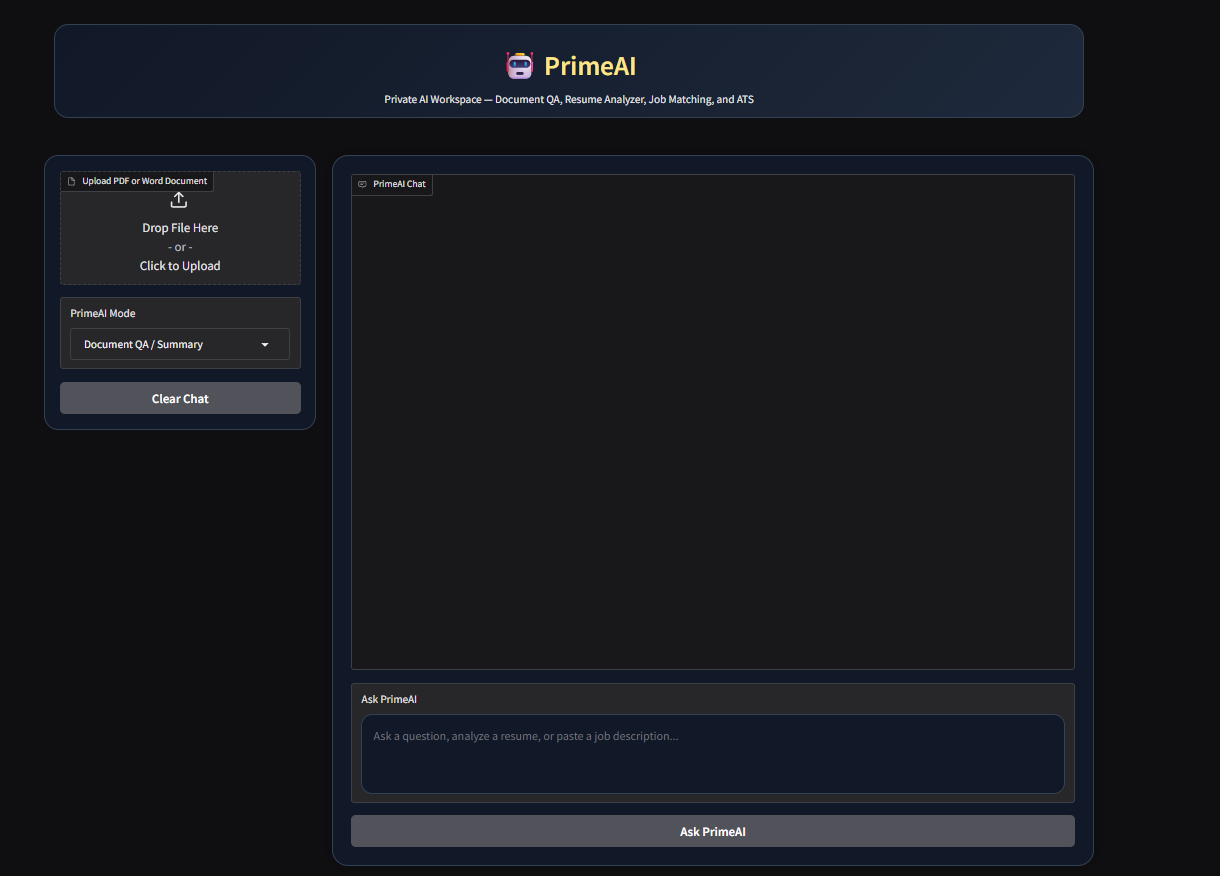
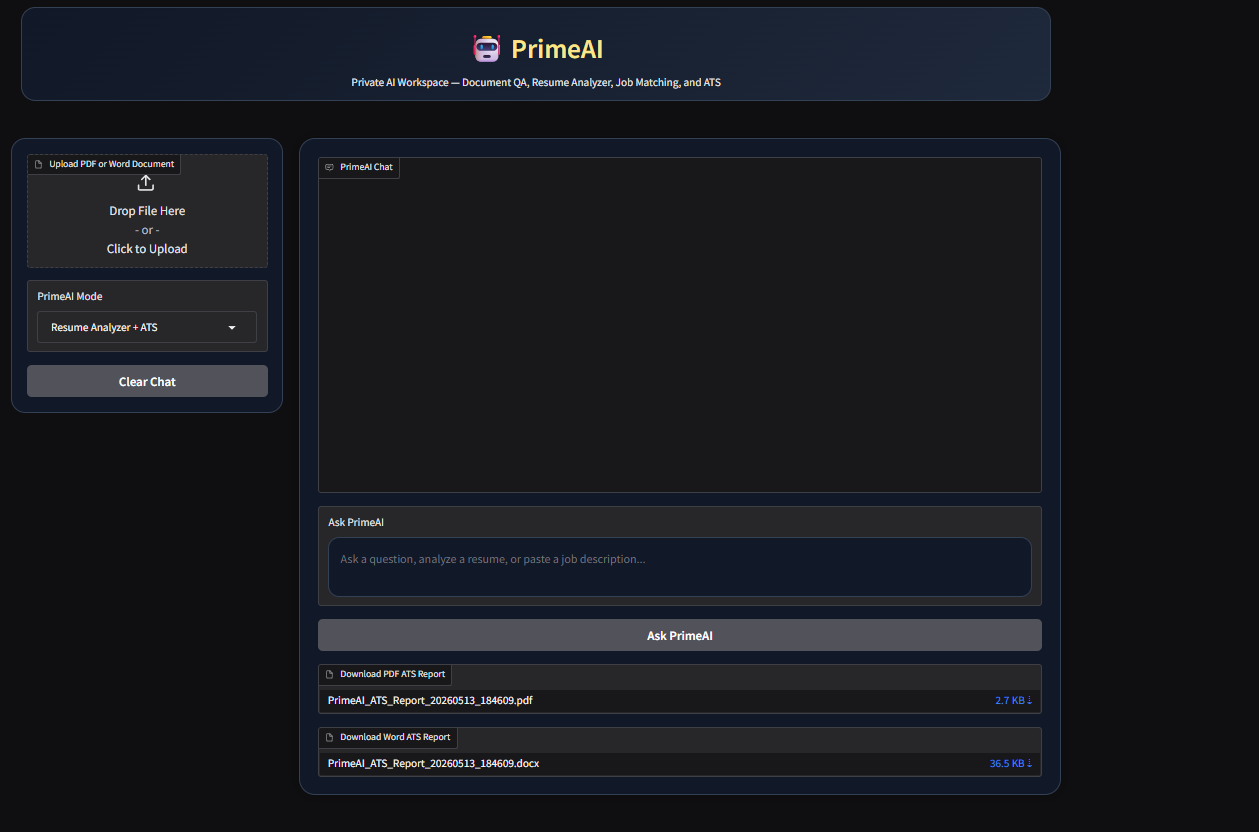
Update PrimeAI README

Changed region(s): [[0.0, 0.0, 0.9033, 0.5], [0.2492, 0.5938, 0.9033, 0.9688]]

diff --git a/app.py b/app.py
@@ -14,6 +14,27 @@ def clean_text(text):
     text = " ".join(text.split())
     return text
 
+def calculate_ats_score(resume_text, job_text):
+
+    resume_text = resume_text.lower()
+    job_text = job_text.lower()
+
+    keywords = list(set(job_text.split()))
+
+    matched = []
+
+    for word in keywords:
+        if len(word) > 4 and word in resume_text:
+            matched.append(word)
+
+    if len(keywords) == 0:
+        score = 0
+    else:
+        score = int((len(matched) / len(keywords)) * 100)
+
+    score = min(score, 95)
+
+    return score, matched[:25]
 
 def ask_ai(prompt):
     llm = ChatOllama(
@@ -25,40 +46,94 @@ def ask_ai(prompt):
 
 
 def job_matching(text, job_description):
+    ats_score, matched_keywords = calculate_ats_score(text, job_description)
     prompt = f"""
 You are PrimeAI, a professional AI job matching and career advisor.
 
 Compare the uploaded resume with the job description below.
 
-Return:
+# PrimeAI ATS Resume Report
+You MUST return the report using these exact headings only.
 
-# Job Match Score
-Give a realistic match score out of 100.
+## ATS Score
+Give a realistic ATS score out of 100.
 
-# Strong Matches
-List resume strengths that match the job.
+## Best-Fit Roles
+List 4 realistic roles:
+- AI Trainer
+- Data Analyst
+- AI Operations Support
+- Internal AI Tools Assistant
 
-# Missing Skills / Gaps
-List missing or weak skills.
+## Matched Keywords
+List matched resume keywords.
 
-# Keywords to Add
-List keywords the resume should include.
+## Missing Keywords
+List missing or weak AI/data keywords.
 
-# Best-Fit Job Titles
-Suggest related job titles.
+## Key Strengths
+List 3 resume strengths that match the job.
 
+## Areas for Improvement
+List 3 practical ATS improvements.
+
+## Rewrite Suggestions
+Rewrite weak resume bullet points professionally.
+
+## Final Recommendation
+Give a short hiring-positioning recommendation.
+- AI Trainer
+- Data Analyst
+- AI Operations
+- QA / AI Testing
+- Internal AI Tools
+- Technical Support AI
+- Business Intelligence
+- Analytics Support
+- AI Workflow Support
+- Research Support
 # Final Recommendation
 Explain whether the candidate should apply and what to improve.
+Formatting rules:
+- Use professional markdown headings.
+- Use bullet points for strengths and weaknesses.
+- Keep answers concise and ATS-focused.
+- Sound like a professional AI career assistant.
+- Avoid generic AI buzzwords.
+- Prioritize realistic entry-to-intermediate AI/data roles.
+
 
 Resume:
-
 {text}
 
 Job Description:
-
 {job_description}
 """
-    return ask_ai(prompt)
+    ai_response = ask_ai(prompt)
+
+    formatted_report = f"""
+# PrimeAI ATS Resume Report
+
+## ATS Score
+**{ats_score}/100**
+
+## Best-Fit Roles
+- AI Trainer
+- Data Analyst
+- AI Operations Support
+- Internal AI Tools Assistant
+
+## Matched Keywords
+{matched_keywords}
+
+## AI Resume Analysis
+{ai_response}
+
+## Final Recommendation
+Use this resume for AI Trainer, Data Analyst, AI Operations, and Internal AI Tools roles after adding stronger measurable achievements, project links, GitHub links, and Hugging Face live demo links.
+"""
+
+    return formatted_report
 
 
 def document_summary(text, question):
@@ -126,6 +201,52 @@ def respond(message, history, file, mode):
 
     return "Please select a mode."
 
+def create_ats_reports(answer):
+    import os
+    import tempfile
+    from datetime import datetime
+
+    timestamp = datetime.now().strftime("%Y%m%d_%H%M%S")
+    pdf_path = os.path.join(tempfile.gettempdir(), f"PrimeAI_ATS_Report_{timestamp}.pdf")
+    word_path = os.path.join(tempfile.gettempdir(), f"PrimeAI_ATS_Report_{timestamp}.docx")
+
+    try:
+        from reportlab.platypus import SimpleDocTemplate, Paragraph, Spacer
+        from reportlab.lib.styles import getSampleStyleSheet
+
+        doc = SimpleDocTemplate(pdf_path)
+        styles = getSampleStyleSheet()
+        story = []
+
+        story.append(Paragraph("PrimeAI ATS Resume Report", styles["Title"]))
+        story.append(Spacer(1, 12))
+
+        for line in answer.split("\n"):
+            if line.strip():
+                clean_line = line.replace("#", "").replace("*", "")
+                story.append(Paragraph(clean_line, styles["BodyText"]))
+                story.append(Spacer(1, 6))
+
+        doc.build(story)
+    except Exception:
+        pdf_path = None
+
+    try:
+        from docx import Document
+
+        document = Document()
+        document.add_heading("PrimeAI ATS Resume Report", 0)
+
+        for line in answer.split("\n"):
+            clean_line = line.replace("#", "").replace("*", "").strip()
+            if clean_line:
+                document.add_paragraph(clean_line)
+
+        document.save(word_path)
+    except Exception:
+        word_path = None
+
+    return pdf_path, word_path
 
 def chat_response(message, history, file, mode):
 
@@ -133,21 +254,22 @@ def chat_response(message, history, file, mode):
         history = []
 
     if not message:
-        return "", history
+        return "", history, None, None
 
     try:
         answer = respond(message, history, file, mode)
 
+        pdf_path, word_path = create_ats_reports(answer)
+
         history.append({"role": "user", "content": message})
         history.append({"role": "assistant", "content": answer})
 
-        return "", history
-
+        return "", history, pdf_path, word_path
     except Exception as e:
         history.append({"role": "user", "content": message})
         history.append({"role": "assistant", "content": f"Error: {str(e)}"})
 
-        return "", history
+        return "", history, pdf_path, word_path
 
 
 custom_css = """
@@ -344,27 +466,30 @@ with gr.Blocks(title="PrimeAI", css=custom_css) as demo:
         with gr.Column(scale=3, elem_id="main-area"):
             chatbot = gr.Chatbot(
                 label="PrimeAI Chat",
-                height=620
+                height=420,
+                render_markdown=True
             )
 
             message_input = gr.Textbox(
                 label="Ask PrimeAI",
                 placeholder="Ask a question, analyze a resume, or paste a job description...",
-                lines=3
+                lines=2
             )
 
             ask_btn = gr.Button("Ask PrimeAI")
+            pdf_output = gr.File(label="Download PDF ATS Report", interactive=False)
+            word_output = gr.File(label="Download Word ATS Report", interactive=False)
 
     ask_btn.click(
         fn=chat_response,
         inputs=[message_input, chatbot, file_input, mode_input],
-        outputs=[message_input, chatbot]
+        outputs=[message_input, chatbot, pdf_output, word_output]
     )
 
     message_input.submit(
         fn=chat_response,
         inputs=[message_input, chatbot, file_input, mode_input],
-        outputs=[message_input, chatbot]
+        outputs=[message_input, chatbot, pdf_output, word_output]
     )
 
     clear_btn.click(lambda: [], outputs=chatbot)

diff --git a/README.md b/README.md
@@ -1,37 +1,37 @@
 # 🤖 PrimeAI — AI Resume & Document Intelligence Workspace
 
-PrimeAI is a multi-mode AI workspace designed for:
+PrimeAI is an AI-powered career and document intelligence workspace designed for ATS resume analysis, AI job matching, document QA, and recruiter-focused career recommendations.
 
-- Resume Analysis & ATS Review
-- AI-Powered Document QA
-- Job Matching Assistance
-- Technical Skill Extraction
-- Portfolio & Career Document Analysis
+Built for aspiring AI professionals, data analysts, and technical support candidates, PrimeAI combines AI-powered resume intelligence with exportable ATS reporting workflows.
 
-Built using:
+## 🌐 Live Demo
 
-- Python
-- Gradio
-- LangChain
-- Ollama
-- ChromaDB
-- Document Intelligence Workflows
+🚀 Hugging Face Demo:
+[PrimeAI Live Demo](YOUR_HUGGINGFACE_LINK)
+
+### 🚀 Core Capabilities
+- ATS Resume Analysis
+- AI Job Matching
+- AI Trainer / Data Analyst Role Evaluation
+- Exportable PDF ATS Reports
+- Exportable Word ATS Reports
+- Resume Improvement Recommendations
+- Document QA & Intelligence
+- Recruiter-Focused Career Guidance
 
 ---
 
 ## ✨ Features
 
 ### 📄 Resume Analyzer + ATS
-- Resume weakness analysis
-- ATS-focused feedback
-- Job-role matching
-- Resume bullet improvement suggestions
+- AI-powered ATS resume analysis
+- AI Trainer, Data Analyst, and AI Operations role matching
+- Resume strengths and improvement recommendations
+- Exportable PDF ATS reports
+- Exportable Word ATS reports
+- Recruiter-focused AI feedback
 
-### 📚 Document QA / Summary
-- Upload PDF or Word documents
-- Ask questions about uploaded files
-- Extract skills, certifications, technologies, and project details
-- AI-powered document summaries
+
 
 ### 💼 Job Matching
 - Analyze resume alignment with AI/Data roles
@@ -47,10 +47,40 @@ Built using:
 - LangChain
 - Ollama
 - ChromaDB
-- pypdf
+- ReportLab
+- python-docx
+- PyPDF
 - docx2txt
+- AI Resume Intelligence Workflows
+- ATS Resume Analysis
+- Document Intelligence Pipelines
 
 ---
+
+---
+
+## 🧠 System Architecture
+
+PrimeAI combines multiple AI workflows into a unified recruiter-focused workspace:
+
+- Resume Parsing
+- ATS Scoring
+- AI Role Matching
+- Document Intelligence
+- Recruiter Recommendation Generation
+- Exportable Reporting
+- AI Q&A Assistant
+
+The application is designed using modular AI workflow pipelines and scalable deployment architecture for future SaaS expansion.
+
+## 🌟 Portfolio Highlights
+- Professional multi-panel AI workspace UI
+- ATS-focused resume intelligence system
+- AI-powered recruiter feedback generation
+- Exportable PDF and Word ATS reports
+- AI Trainer and Data Analyst role matching
+- Document intelligence and QA workflows
+- Portfolio-ready Hugging Face deployment architecture
 
 ## 🚀 Run Locally
 
@@ -64,12 +94,8 @@ python app.py
 ### 🏠 PrimeAI Home
 ![PrimeAI Home](screenshots/primeai_home.png)
 
----
-
-### 📄 Resume Analyzer + ATS
+### 📄 Resume Analysis
 ![Resume Analysis](screenshots/resume_analysis.png)
 
----
-
-### 📚 Document QA / Summary
-![Document QA](screenshots/document_qa.png)
+### 🤖 AI Q&A Assistant
+![AI Q&A](screenshots/qa_assistant.png)